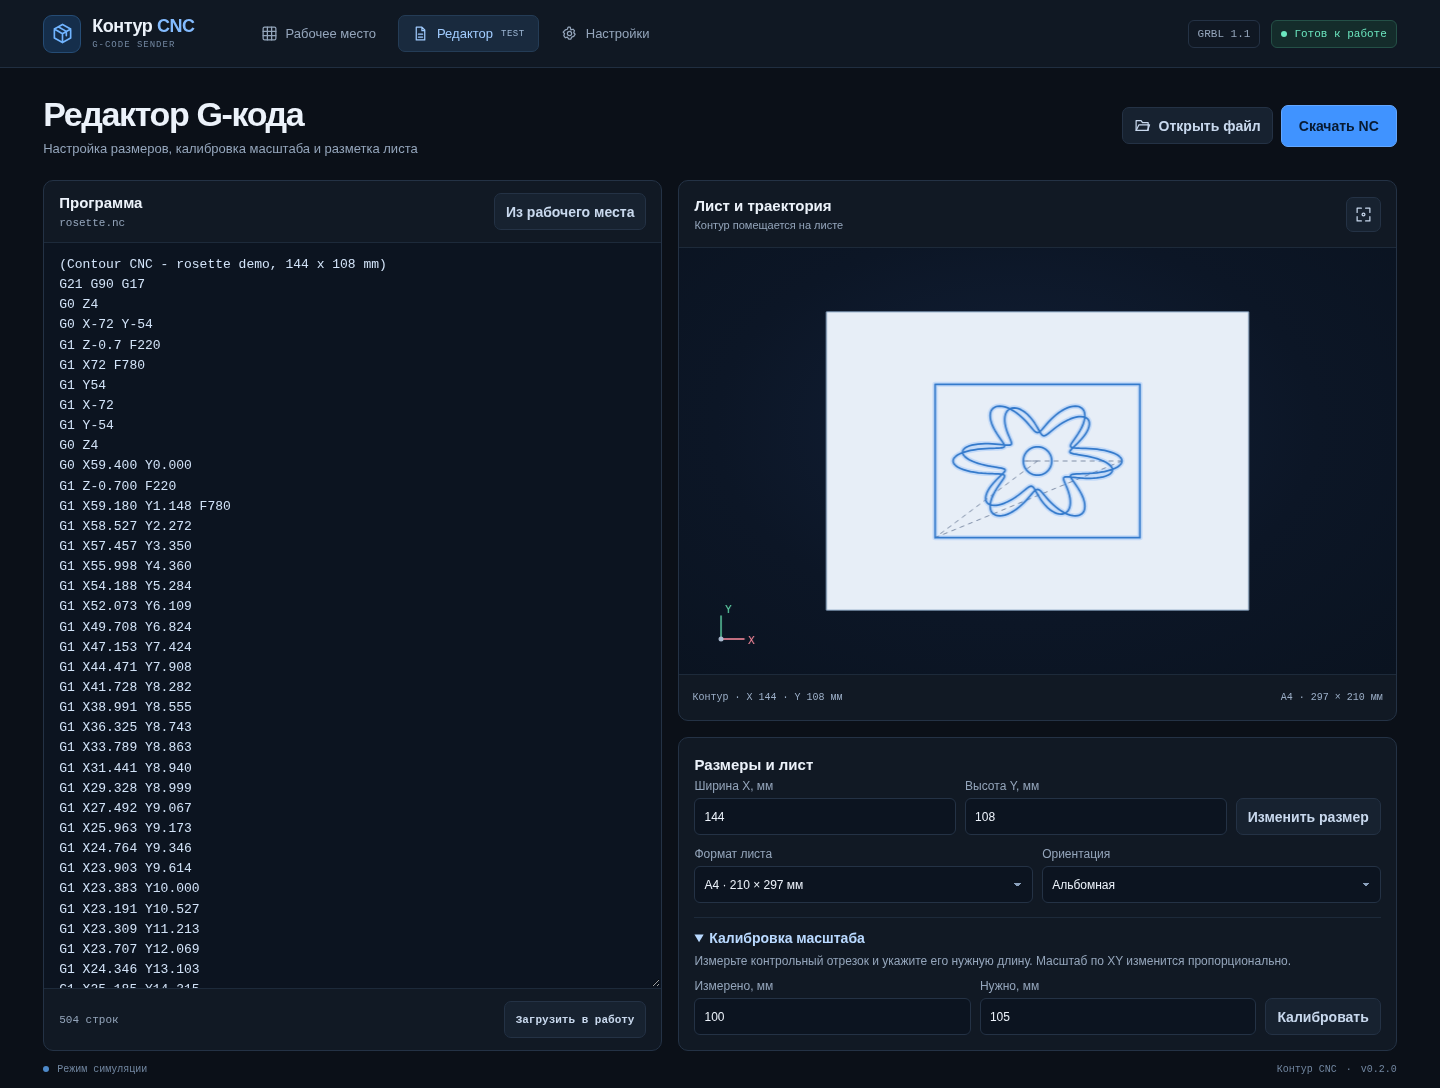
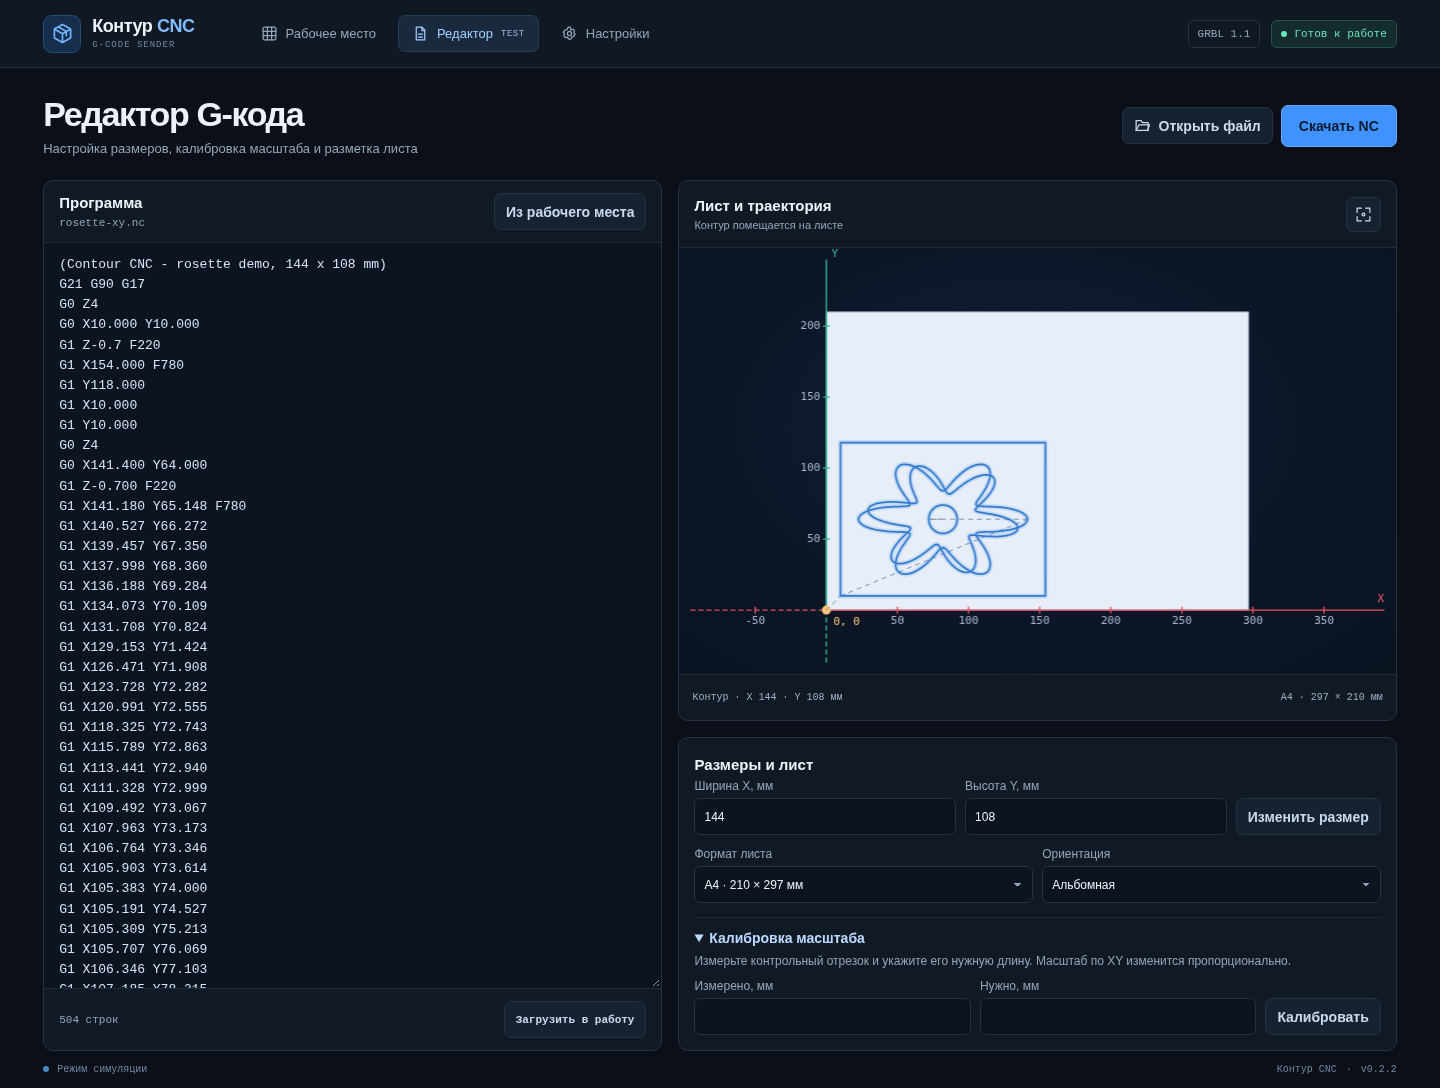
Show working XY origin and add XY zero control

diff --git a/web/plot.js b/web/plot.js
@@ -126,6 +126,8 @@ function gridInterval(span) {
   return (ideal / base < 2 ? 2 : ideal / base < 5 ? 5 : 10) * base;
 }
 
+const axisNumber = new Intl.NumberFormat('ru-RU', {maximumFractionDigits: 6, useGrouping: false});
+
 export class Plot {
   constructor(canvas) {
     this.canvas = canvas;
@@ -220,9 +222,15 @@ export class Plot {
     ctx.setTransform(pixelRatio, 0, 0, pixelRatio, 0, 0);
     ctx.clearRect(0, 0, width, height);
 
-    const sheet = view === 'xy' ? this.sheet : null;
-    const min = sheet ? [Math.min(data.min[0], sheet.x), Math.min(data.min[1], sheet.y), data.min[2]] : data.min;
-    const max = sheet ? [Math.max(data.max[0], sheet.x + sheet.width), Math.max(data.max[1], sheet.y + sheet.height), data.max[2]] : data.max;
+    const xy = view === 'xy';
+    const sheet = xy ? this.sheet : null;
+    const empty = xy && !sheet && data.min[0] === data.max[0] && data.min[1] === data.max[1];
+    const min = xy ? [Math.min(data.min[0], 0), Math.min(data.min[1], 0), data.min[2]] : data.min;
+    const max = xy ? [
+      Math.max(data.max[0], sheet?.width || (empty ? 110 : 0)),
+      Math.max(data.max[1], sheet?.height || (empty ? 110 : 0)),
+      data.max[2],
+    ] : data.max;
     const corners = [min[0], max[0]].flatMap(x =>
       [min[1], max[1]].flatMap(y => [min[2], max[2]].map(z => project([x, y, z], view))));
     const extents = [0, 1].map(axis => [Math.min(...corners.map(p => p[axis])), Math.max(...corners.map(p => p[axis]))]);
@@ -237,9 +245,11 @@ export class Plot {
       ctx.moveTo(...toCanvas(a));
       ctx.lineTo(...toCanvas(b));
     };
+    const origin = xy ? toCanvas([0, 0, 0]) : null;
+    const tick = xy ? gridInterval(12 * 42 / scale) : 0;
 
     if (sheet) {
-      const [left, top] = toCanvas([sheet.x, sheet.y + sheet.height, 0]);
+      const [left, top] = toCanvas([0, sheet.height, 0]);
       const paperWidth = sheet.width * scale;
       const paperHeight = sheet.height * scale;
       ctx.fillStyle = '#e7eef7';
@@ -265,9 +275,13 @@ export class Plot {
 
     if (this.grid) {
       const [horizontal, vertical] = view === 'xz' ? [0, 2] : view === 'yz' ? [1, 2] : [0, 1];
-      const interval = gridInterval(Math.max(max[horizontal] - min[horizontal], max[vertical] - min[vertical], 20));
-      const low = [horizontal, vertical].map(axis => (Math.floor(min[axis] / interval) - 3) * interval);
-      const high = [horizontal, vertical].map(axis => (Math.ceil(max[axis] / interval) + 3) * interval);
+      const divisions = xy && Math.round(tick / 10 ** Math.floor(Math.log10(tick))) !== 5 ? 2 : 5;
+      const interval = xy ? tick / divisions : gridInterval(Math.max(max[horizontal] - min[horizontal], max[vertical] - min[vertical], 20));
+      const lower = xy ? [-origin[0] / scale, (origin[1] - height) / scale] : [min[horizontal], min[vertical]];
+      const upper = xy ? [(width - origin[0]) / scale, origin[1] / scale] : [max[horizontal], max[vertical]];
+      const padding = xy ? 1 : 3;
+      const low = lower.map(value => (Math.floor(value / interval) - padding) * interval);
+      const high = upper.map(value => (Math.ceil(value / interval) + padding) * interval);
       const make = (a, b) => {
         const point = [0, 0, view === 'iso' ? Math.min(0, min[2]) : 0];
         point[horizontal] = a;
@@ -278,17 +292,19 @@ export class Plot {
         ctx.beginPath();
         for (let index = 0; index <= Math.round((high[0] - low[0]) / interval); index++) {
           const value = low[0] + index * interval;
-          if ((Math.round(value / interval) % 5 === 0) === major) trace(make(value, low[1]), make(value, high[1]));
+          if ((Math.round(value / interval) % divisions === 0) === major) trace(make(value, low[1]), make(value, high[1]));
         }
         for (let index = 0; index <= Math.round((high[1] - low[1]) / interval); index++) {
           const value = low[1] + index * interval;
-          if ((Math.round(value / interval) % 5 === 0) === major) trace(make(low[0], value), make(high[0], value));
+          if ((Math.round(value / interval) % divisions === 0) === major) trace(make(low[0], value), make(high[0], value));
         }
         ctx.strokeStyle = major ? '#29425e' : '#1c3048';
         ctx.lineWidth = 1;
         ctx.stroke();
       }
     }
+
+    if (xy) this.drawXYAxes(ctx, width, height, origin, scale, tick);
 
     ctx.lineCap = 'round';
     ctx.lineJoin = 'round';
@@ -327,7 +343,75 @@ export class Plot {
       ctx.fillStyle = '#ffc577';
       ctx.fill();
     }
-    this.drawAxes(ctx, width, height);
+    if (!xy) this.drawAxes(ctx, width, height);
+  }
+
+  drawXYAxes(ctx, width, height, [x, y], scale, interval) {
+    const gap = 12;
+    const axes = [
+      {name: 'X', zero: x, cross: y, length: width, crossLength: height, color: '#e45367', vertical: false},
+      {name: 'Y', zero: height - y, cross: x, length: height, crossLength: width, color: '#2fb58b', vertical: true},
+    ];
+    ctx.font = '11px monospace';
+    ctx.lineWidth = 1.4;
+    const label = (text, ...position) => {
+      ctx.save();
+      ctx.lineWidth = 2.5;
+      ctx.strokeStyle = '#111b2c';
+      ctx.strokeText(text, ...position);
+      ctx.fillText(text, ...position);
+      ctx.restore();
+    };
+    for (const axis of axes) {
+      const {name, zero, cross, length, crossLength, color, vertical} = axis;
+      if (cross < 0 || cross > crossLength) continue;
+      const point = (value, offset = 0) => vertical ? [cross + offset, height - value] : [value, cross + offset];
+      const start = Math.max(gap, Math.min(length - gap, zero));
+      const line = (a, b) => {
+        ctx.beginPath();
+        ctx.moveTo(...point(a));
+        ctx.lineTo(...point(b));
+        ctx.stroke();
+      };
+      ctx.strokeStyle = color;
+      if (start > gap) {
+        ctx.setLineDash([4, 4]);
+        line(gap, start);
+      }
+      ctx.setLineDash([]);
+      if (start < length - gap) {
+        line(start, length - gap);
+        ctx.fillStyle = color;
+        ctx.textAlign = vertical ? 'left' : 'right';
+        ctx.textBaseline = 'bottom';
+        label(name, ...point(length - gap, vertical ? 5 : -5));
+      }
+      const labelSide = vertical ? (cross < 30 ? 1 : -1) : (cross > crossLength - 24 ? -1 : 1);
+      const pixels = interval * scale;
+      for (let index = Math.ceil((gap - zero) / pixels); index <= Math.floor((length - 2 * gap - zero) / pixels); index++) {
+        if (index === 0) continue;
+        const position = zero + index * pixels;
+        ctx.beginPath();
+        ctx.moveTo(...point(position, -3));
+        ctx.lineTo(...point(position, 3));
+        ctx.stroke();
+        ctx.fillStyle = '#a5b4ca';
+        ctx.textAlign = vertical ? (labelSide > 0 ? 'left' : 'right') : 'center';
+        ctx.textBaseline = vertical ? 'middle' : (labelSide > 0 ? 'top' : 'bottom');
+        label(axisNumber.format(index * interval), ...point(position, labelSide * 6));
+      }
+    }
+    if (x >= 0 && x <= width && y >= 0 && y <= height) {
+      ctx.beginPath();
+      ctx.arc(x, y, 4.5, 0, tau);
+      ctx.fillStyle = '#ffc577';
+      ctx.fill();
+      ctx.textAlign = x > width - 38 ? 'right' : 'left';
+      ctx.textBaseline = y > height - 20 ? 'bottom' : 'top';
+      label('0, 0', x > width - 38 ? x - 7 : x + 7, y > height - 20 ? y - 7 : y + 7);
+    }
+    ctx.textAlign = 'start';
+    ctx.textBaseline = 'alphabetic';
   }
 
   drawAxes(ctx, width, height) {

diff --git a/web/index.html b/web/index.html
@@ -64,11 +64,11 @@
         <section class="panel visualization">
           <div class="visual-head">
             <div><h2>Траектория</h2><p id="visual-file">Предпросмотр G-кода</p></div>
-            <div id="views" class="segmented views" aria-label="Плоскость просмотра"><button type="button" data-view="iso" class="active">3D</button><button type="button" data-view="xy">XY</button><button type="button" data-view="xz">XZ</button><button type="button" data-view="yz">YZ</button></div>
+            <div id="views" class="segmented views" aria-label="Плоскость просмотра"><button type="button" data-view="iso">3D</button><button type="button" data-view="xy" class="active">XY</button><button type="button" data-view="xz">XZ</button><button type="button" data-view="yz">YZ</button></div>
           </div>
           <div id="plot-area" class="plot-area">
             <canvas id="plot" aria-label="График траектории инструмента"></canvas>
-            <span id="plot-mode" class="canvas-chip">ИЗОМЕТРИЯ</span>
+            <span id="plot-mode" class="canvas-chip">ВИД СВЕРХУ · XY</span>
             <div class="plot-tools" aria-label="Масштаб">
               <button id="zoom-in" class="icon-button" type="button" aria-label="Приблизить" title="Приблизить"><svg><use href="/icons.svg#plus"></use></svg></button>
               <button id="zoom-out" class="icon-button" type="button" aria-label="Отдалить" title="Отдалить"><svg><use href="/icons.svg#minus"></use></svg></button>
@@ -98,6 +98,7 @@
             <div class="axis axis-z"><span>Z</span><output id="position-Z">—</output></div>
           </div>
           <div class="coordinate-actions">
+            <button class="secondary" data-zero="XY" type="button" title="Установить рабочий ноль по осям X и Y">Обнулить XY</button>
             <button class="secondary zero-z" data-zero="Z" type="button" title="Установить рабочий ноль по оси Z">Обнулить Z</button>
             <button class="secondary" data-zero="XYZ" type="button">Обнулить XYZ</button>
           </div>
@@ -165,7 +166,7 @@
         </div>
       </div>
     </div>
-    <footer><span><i></i> <span id="footer-status">Локальный интерфейс</span></span><span>Контур CNC <b>·</b> v0.2.1</span></footer>
+    <footer><span><i></i> <span id="footer-status">Локальный интерфейс</span></span><span>Контур CNC <b>·</b> v0.2.2</span></footer>
   </main>
   <div id="toast" role="status" hidden></div>
   <dialog id="settings">

diff --git a/web/editor.js b/web/editor.js
@@ -58,14 +58,14 @@ export function createEditor({getFile, request, upload, showWorkspace}) {
     const width = landscape ? format.height : format.width;
     const height = landscape ? format.width : format.height;
     const [min, max] = bounds;
-    plot.setSheet({...format, width, height, x: (min[0] + max[0] - width) / 2, y: (min[1] + max[1] - height) / 2});
+    plot.setSheet({...format, width, height});
     get('editor-sheet-size').textContent = format.name + ' · ' + width + ' × ' + height + ' мм';
     const status = get('editor-fit-status');
-    const exceeds = size[0] > width + .0001 || size[1] > height + .0001;
+    const exceeds = min[0] < -.0001 || min[1] < -.0001 || max[0] > width + .0001 || max[1] > height + .0001;
     const uncertain = data?.approximate || data?.truncated;
     status.toggleAttribute('data-outside', exceeds || uncertain);
     if (uncertain) status.textContent = 'Предпросмотр приблизительный';
-    else if (!data?.segments.length) status.textContent = 'Лист центрируется по контуру';
+    else if (!data?.segments.length) status.textContent = 'Нижний левый угол листа · X0 Y0';
     else if (exceeds) status.textContent = 'Контур выходит за границы листа';
     else status.textContent = 'Контур помещается на листе';
   }

diff --git a/web/style.css b/web/style.css
@@ -122,9 +122,10 @@ canvas:active { cursor: grabbing; }
 .axis output { font: 600 clamp(15px, 1.45vw, 23px) var(--mono); text-align: right; overflow: hidden; text-overflow: ellipsis; }
 .axis button { min-height: 26px; background: var(--raised); border: 1px solid var(--border); border-radius: 5px; color: #a6bbd5; font: 12px var(--mono); }
 .axis button:hover:not(:disabled) { color: var(--text); border-color: var(--accent); }
-.coordinate-actions { display: grid; grid-template-columns: minmax(0, 1fr) minmax(0, 1.1fr); gap: 6px; }
+.coordinate-actions { display: grid; grid-template-columns: repeat(2, minmax(0, 1fr)); gap: 6px; }
 .coordinate-actions button { font-size: 12px; padding-inline: 4px; }
 .coordinate-actions .zero-z { background: #203b5a; border-color: #365e88; color: #badbff; }
+.coordinate-actions [data-zero="XYZ"] { grid-column: 1 / -1; }
 .file-card { display: flex; align-items: center; gap: 9px; padding: 9px; border: 1px solid var(--subtle); border-radius: 7px; background: var(--field); }
 .file-icon { display: grid; place-items: center; width: 31px; height: 31px; flex: 0 0 31px; border-radius: 6px; background: #1a304c; color: #82bcff; }
 .file-card div + div { min-width: 0; }

diff --git a/web/app.js b/web/app.js
@@ -6,7 +6,7 @@ const number = new Intl.NumberFormat('ru-RU');
 const dimensions = new Intl.NumberFormat('ru-RU', {maximumFractionDigits: 2});
 const defaults = {
   steps: [.1, 1, 10, 50], step: 1, feed: 600, decimals: 3, baud: 115200,
-  view: 'iso', grid: true, rapids: true, keyboard: false,
+  view: 'xy', grid: true, rapids: true, keyboard: false,
 };
 const settingsKey = 'contour-cnc.settings.v1';
 const viewLabels = {iso: 'ИЗОМЕТРИЯ', xy: 'ВИД СВЕРХУ · XY', xz: 'ВИД СПЕРЕДИ · XZ', yz: 'ВИД СБОКУ · YZ'};

diff --git a/README.md b/README.md
@@ -17,8 +17,8 @@
 | Возможность | Что доступно |
 | --- | --- |
 | Управление осями | Перемещения XYZ, настраиваемые шаг и подача, рабочие и машинные координаты. |
-| Нули | Отдельное обнуление рабочей Z, кнопки для X и Y, общий ноль XYZ и цикл поиска машинного нуля. |
-| Предпросмотр | Изометрия, XY, XZ и YZ, масштаб, панорамирование, рабочие и холостые ходы. |
+| Нули | Обнуление рабочих XY, Z и XYZ, кнопки для отдельных X и Y и цикл поиска машинного нуля. |
+| Предпросмотр | Вид сверху XY с осями и шкалой в миллиметрах, изометрия, XZ и YZ, масштаб и панорамирование. |
 | Программа | Запуск, пауза, продолжение, остановка, прогресс и консоль GRBL. |
 | Настройки | Набор шагов, подача, скорость порта, точность координат, начальный вид, сетка и клавиатура. Параметры сохраняются в браузере. |
 
@@ -36,7 +36,7 @@
 
 - Откройте свой NC или возьмите программу из рабочего места. Текст можно править прямо в редакторе.
 - Задайте ширину или высоту контура. Размеры XY меняются пропорционально с сохранением Z и подачи. В режиме калибровки масштаб рассчитывается как отношение нужной длины отрезка к измеренной.
-- Выберите **A4** (210 × 297 мм) или **тетрадный лист** (165 × 205 мм, сетка 5 мм). Доступны книжная и альбомная ориентации, подложка центрируется по контуру.
+- Выберите **A4** (210 × 297 мм) или **тетрадный лист** (165 × 205 мм, сетка 5 мм). Доступны книжная и альбомная ориентации. Нижний левый угол листа находится в X0 Y0, а контур показан в координатах программы.
 - Скачайте новый NC или загрузите его в рабочее место. Старт программы выполняется отдельной кнопкой.
 
 Размер контура рассчитывается по рабочим ходам, а для файлов только с холостыми ходами — по всей траектории. Масштабирование поддерживает линейные ходы и дуги G17, включая параметры I, J и R. Дуги в плоскостях XZ и YZ, машинные координаты G53 и команды щупа G38 требуют ручной правки. Предпросмотр строится от рабочего нуля.
@@ -48,7 +48,7 @@
 3. Подключитесь, установите рабочий ноль и проверьте траекторию. **Машинный ноль** запускает настроенный в GRBL цикл поиска концевых выключателей.
 4. Перед завершением работы остановите программу. Закрытие вкладки браузера оставляет процесс отправителя запущенным. Чтобы завершить процесс, нажмите Ctrl+C в консоли.
 
-Если GRBL отвечает `error:5` на `$H`, поиск машинного нуля выключен (`$22=0`). Кнопка **Проверить $22** считывает текущие настройки контроллера. Для станка с установленными и проверенными концевиками настройте направление поиска и отъезд от концевиков, затем включите цикл командой `$22=1`. При работе без концевиков рабочий ноль можно задать кнопками **Обнулить Z** и **Обнулить XYZ**.
+Если GRBL отвечает `error:5` на `$H`, поиск машинного нуля выключен (`$22=0`). Кнопка **Проверить $22** считывает текущие настройки контроллера. Для станка с установленными и проверенными концевиками настройте направление поиска и отъезд от концевиков, затем включите цикл командой `$22=1`. При работе без концевиков рабочий ноль можно задать кнопками **Обнулить XY**, **Обнулить Z** и **Обнулить XYZ**.
 
 Прогресс учитывает команды, подтверждённые GRBL. После последнего подтверждения приложение ждёт состояния `Idle`. Кнопка **Стоп** запрашивает торможение и затем выполняет программный сброс. При работе с реальным станком держите аппаратную аварийную остановку доступной. Симулятор упрощает движение и служит для проверки интерфейса и команд.
 
